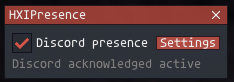
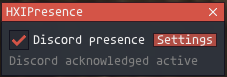
Preserve Discord presence while zoning

diff --git a/tests/test_source.py b/tests/test_source.py
@@ -165,7 +165,26 @@ class HXIPresenceSourceTests(unittest.TestCase):
     def test_public_metadata_credits_dragohorse(self):
         self.assertIn("addon.author = 'DragoHorse'", MAIN_SOURCE)
         self.assertIn("Created by **DragoHorse**", README)
-        self.assertIn("HXIPresence-v0.4.2.zip", README)
+        self.assertIn("HXIPresence-v0.4.3.zip", README)
+
+    def test_full_session_timer_survives_zoning_but_resets_on_logout(self):
+        self.assertIn("return nil, login_status", MAIN_SOURCE)
+        self.assertIn("local snapshot, login_status = read_player_snapshot()", MAIN_SOURCE)
+        self.assertIn("update_login_state(snapshot, login_status)", MAIN_SOURCE)
+        self.assertRegex(
+            MAIN_SOURCE,
+            r"(?s)if runtime\.session_started_at == nil then\s+"
+            r"runtime\.session_started_at = os\.time\(\);\s+end",
+        )
+        self.assertIn(
+            "if login_status ~= 0 then\n        return;\n    end",
+            MAIN_SOURCE,
+        )
+        self.assertRegex(
+            MAIN_SOURCE,
+            r"(?s)if login_status ~= 0 then\s+return;\s+end\s+"
+            r"runtime\.session_started_at = nil;.*?discord_ipc\.clear_activity\(\);",
+        )
 
     def test_readme_requires_no_user_discord_application_setup(self):
         self.assertIn("No Discord Developer Portal setup is required", README)

diff --git a/README.md b/README.md
@@ -33,8 +33,9 @@ Settings and activity preview:
 
 ![HXIPresence settings window](docs/images/hxipresence-settings.png)
 
-This settings screenshot was captured during pre-approval testing. Version
-0.4.2 shows the current approval status.
+Discord activity:
+
+![HXIPresence Discord activity](docs/images/hxipresence-discord-activity.png)
 
 ## Requirements
 
@@ -47,7 +48,7 @@ need to create an application, bot, token, or webhook.
 
 ## Installation
 
-1. Download `HXIPresence-v0.4.2.zip` from the
+1. Download `HXIPresence-v0.4.3.zip` from the
    [latest release](https://github.com/ryuutatsuo23-max/HXIPresence/releases/latest).
 2. Extract the included `HXIPresence` folder into Ashita's `addons` folder.
 3. Confirm the resulting path is `addons\HXIPresence\HXIPresence.lua`.
